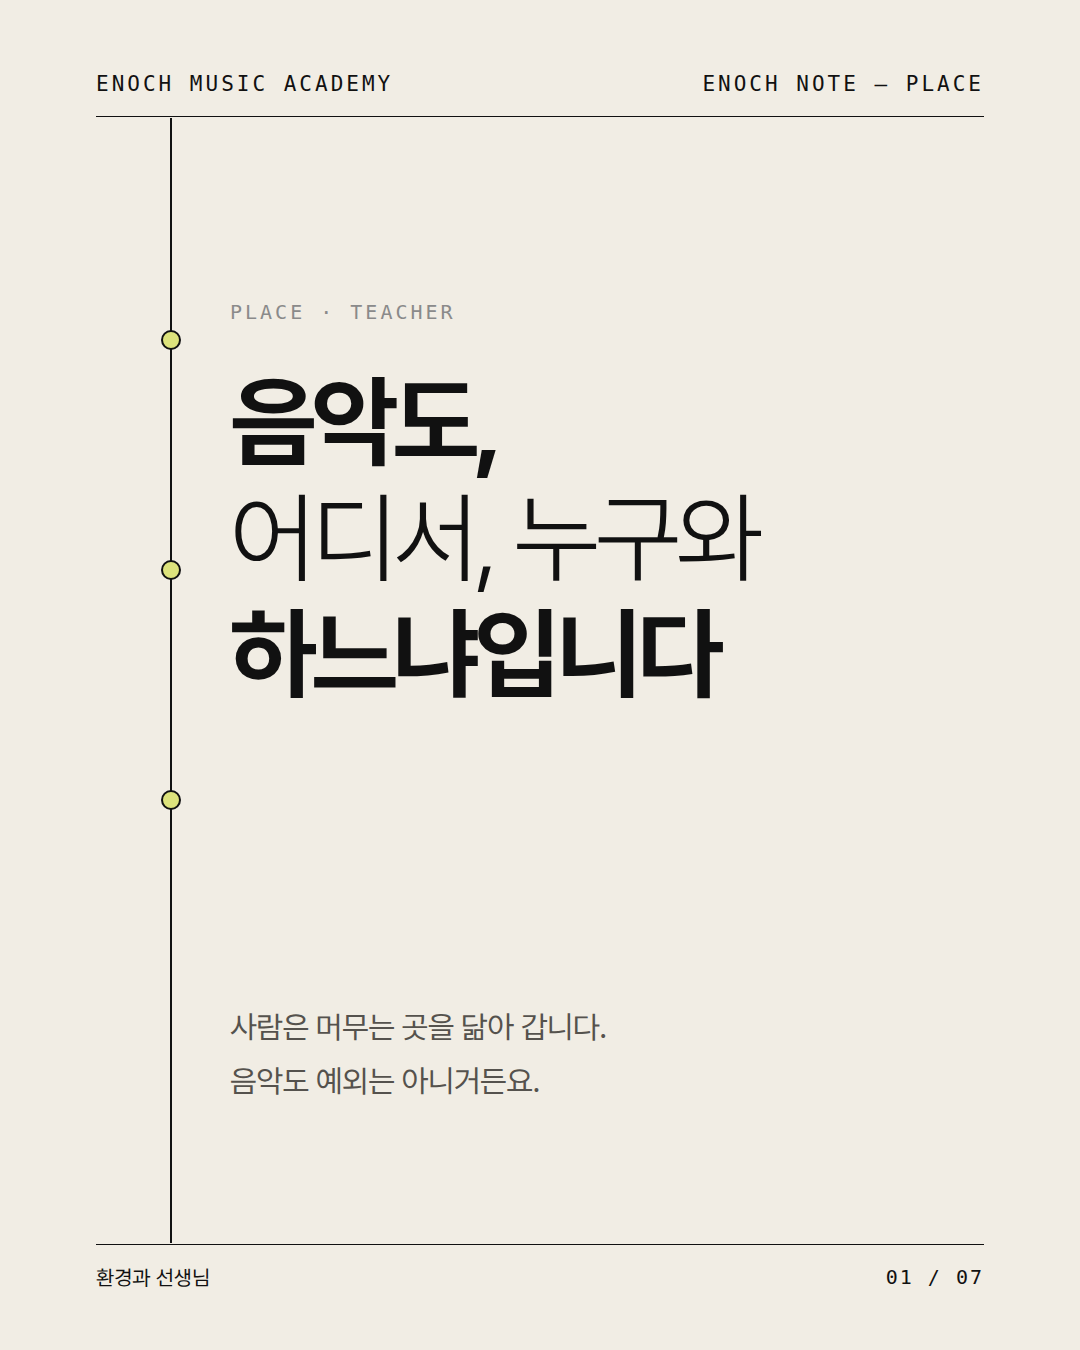
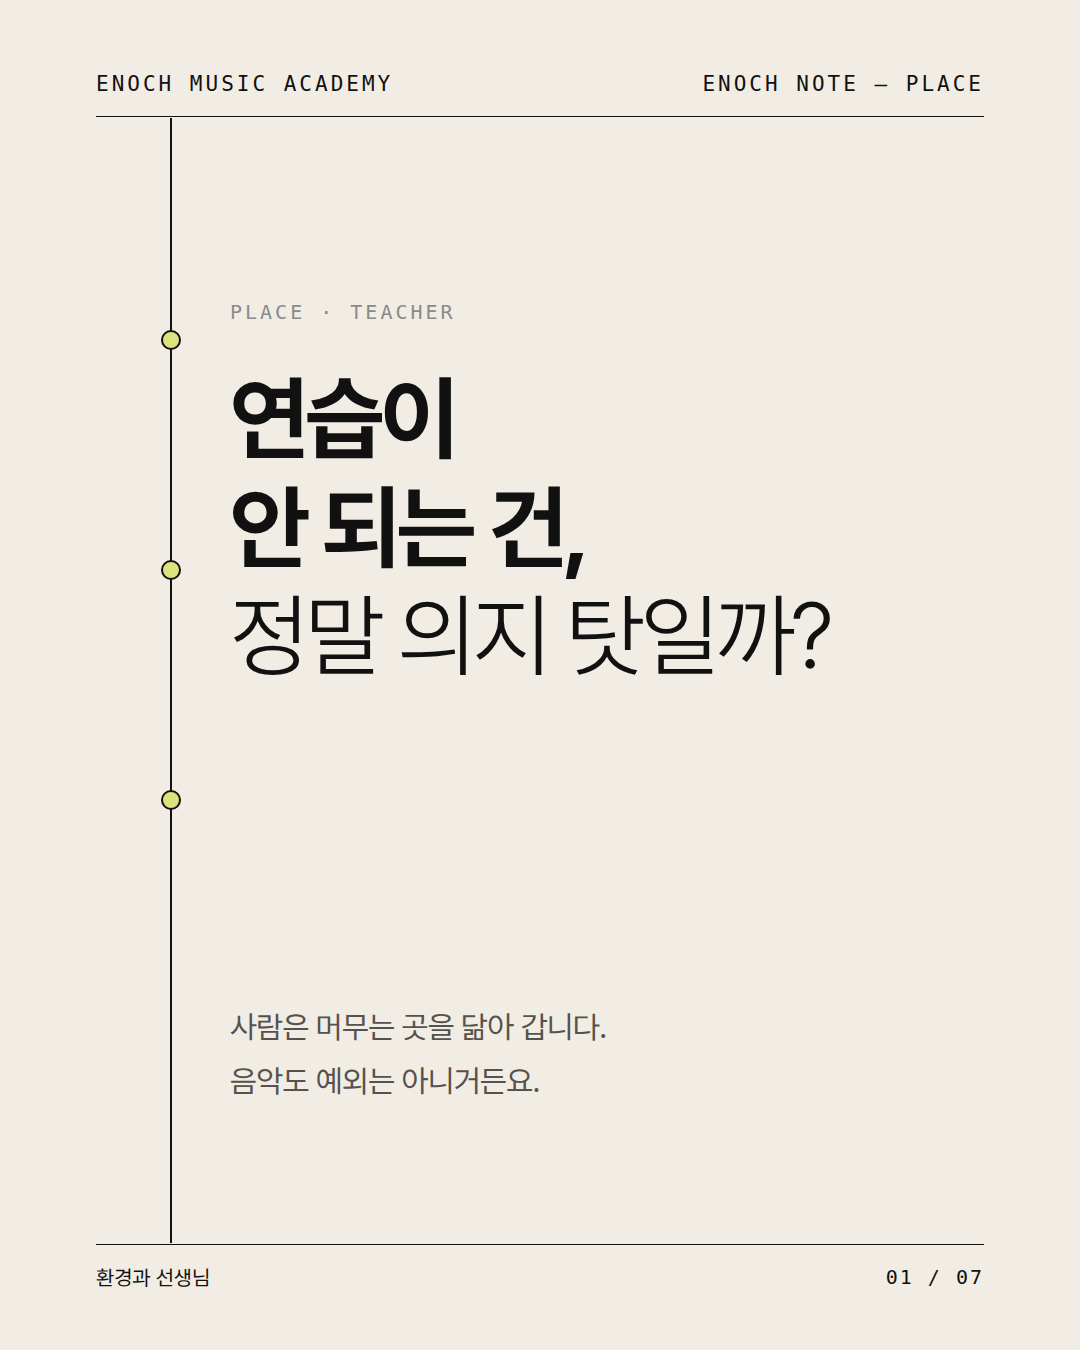
환경과 선생님: 1장 제목을 '연습이 안 되는 건, 정말 의지 탓일까?'로
Claude-Session: https://claude.ai/code/session_01HGbZvgMeYrbU7mY8bwfjyb

Changed region(s): [[0.2139, 0.28, 0.7639, 0.5289]]

diff --git a/output/노트_환경과선생님/deck.html b/output/노트_환경과선생님/deck.html
@@ -28,7 +28,7 @@
 <div class="axis"></div>
 <div class="dot" style="top:330px"></div><div class="dot" style="top:560px"></div><div class="dot" style="top:790px"></div>
 <div class="c" style="top:300px"><div class="k">Place · Teacher</div>
-<div class="h" style="font-size:100px;letter-spacing:-5px;line-height:1.16;margin-top:40px">음악도,<br><em>어디서, 누구와</em><br>하느냐입니다</div></div>
+<div class="h" style="font-size:92px;letter-spacing:-4.5px;line-height:1.18;margin-top:40px">연습이<br>안 되는 건,<br><em>정말 의지 탓일까?</em></div></div>
 <div class="c p" style="top:1000px">사람은 머무는 곳을 닮아 갑니다.<br>음악도 예외는 아니거든요.</div>
 <div class="ft"><span>환경과 선생님</span><span>01 / 07</span></div></section><section class="s" id="l2"><div class="hd"><span>ENOCH MUSIC ACADEMY</span><span>ENOCH NOTE — PLACE</span></div>
 <div class="axis"></div><div class="dot" style="top:250px"></div>

diff --git a/output/노트_환경과선생님/caption.md b/output/노트_환경과선생님/caption.md
@@ -1,7 +1,7 @@
 # 캡션: ENOCH NOTE — 환경과 선생님
 
 ## 본문
-음악도, 어디서 누구와 하느냐입니다.
+연습이 안 되는 건, 정말 의지 탓일까?
 
 ENOCH은 공간을 꾸릴 때 분위기에 가장 신경 썼어요. 수강생은 운영시간 안에 연습실을 쓸 수 있고, 입시 · 취미 · 성인 · 전문 모든 과정이 1:1입니다.
 
@@ -16,7 +16,7 @@ ENOCH은 공간을 꾸릴 때 분위기에 가장 신경 썼어요. 수강생은
 #실용음악학원 #음악레슨 #1대1레슨 #연습실 #음악공부 #시흥실용음악학원 #대야역음악학원 #에녹실용음악학원
 
 ## 대체 텍스트
-1. 세로 정렬선 옆에 "음악도, 어디서, 누구와 하느냐입니다." 아래 "사람은 머무는 곳을 닮아 갑니다."
+1. 세로 정렬선 옆에 "연습이 안 되는 건, 정말 의지 탓일까?" 아래 "사람은 머무는 곳을 닮아 갑니다."
 2. "사람은, 환경을 닮아 갑니다" 아래 '나'를 둘러싼 세 겹 원: 듣는 소리, 손이 닿는 악기, 곁에 있는 사람.
 3. "음악하기 좋은 곳은, 소리 내기 편한 곳" — 눈치 보지 않고 소리 낼 수 있는 곳, 악기가 늘 그 자리에 있는 곳, 가는 길이 부담스럽지 않은 곳.
 4. "좋은 선생님은, 내 소리를 듣는 사람" 아래 '내 소리'에서 '듣는 사람'으로 이어지는 물결선.

diff --git a/output/노트_환경과선생님/brief.md b/output/노트_환경과선생님/brief.md
@@ -5,7 +5,7 @@
 
 | 장 | 역할 | 핵심 메시지 |
 |---|---|---|
-| 01 | 표지 | 음악도, 어디서 누구와 하느냐입니다 |
+| 01 | 표지 | 연습이 안 되는 건, 정말 의지 탓일까? (원장님 선택 10/12) |
 | 02 | 환경 | 사람은 환경을 닮아 간다 (의지만큼 환경이 습관을 만든다) |
 | 03 | 장소 | 음악하기 좋은 곳 = 소리 내기 편한 곳 |
 | 04 | 선생님 | 좋은 선생님 = 내 소리를 듣는 사람 |
